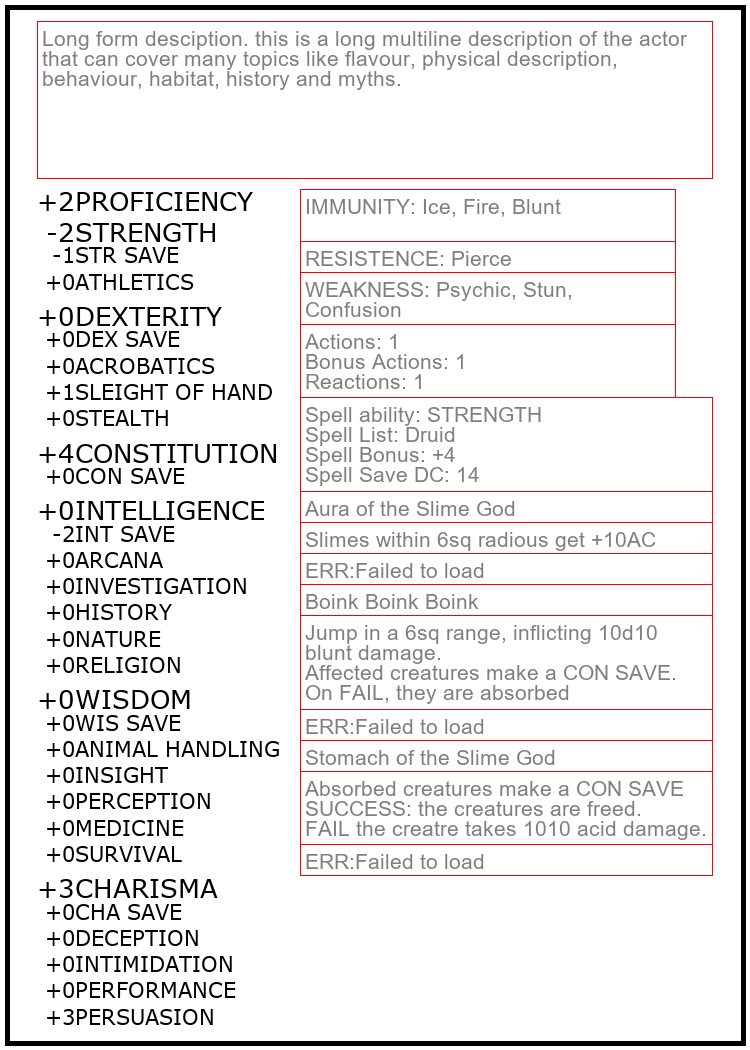
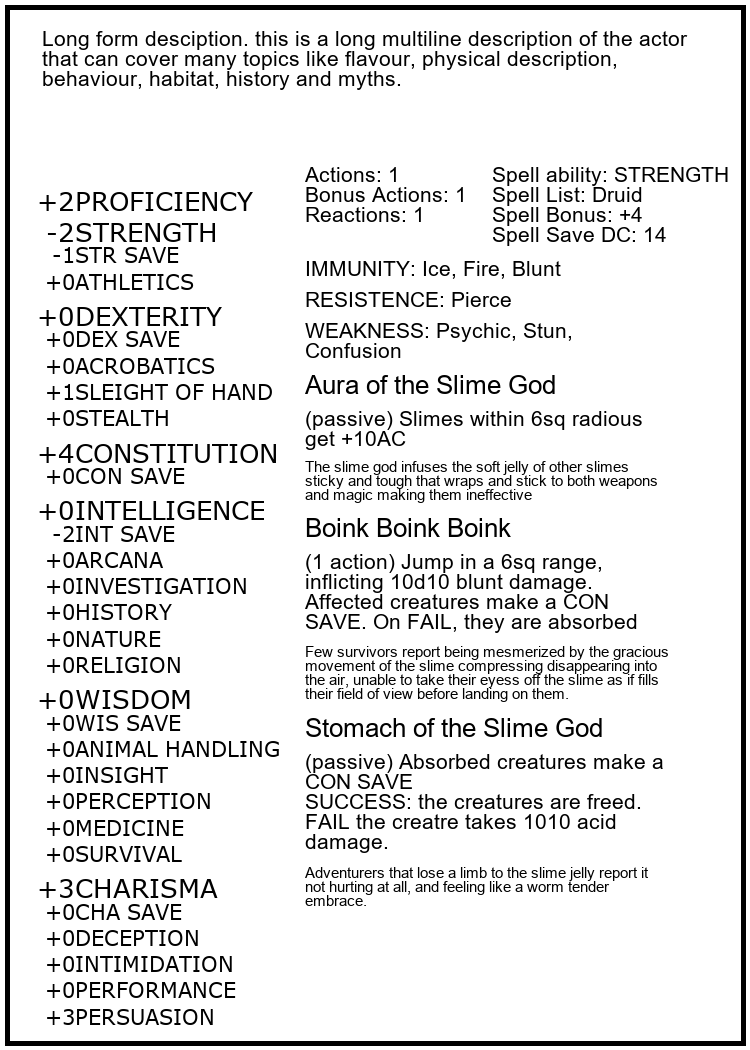
amazing, I completed the card back, looks great TODO: place an image on the back for the card back

Changed region(s): [[0.3987, 0.1524, 0.9813, 0.8838], [0.0307, 0.0305, 0.92, 0.0914]]

diff --git a/src/lib/cl_generator.py b/src/lib/cl_generator.py
@@ -237,9 +237,9 @@ class Cl_npc_character_sheet_generator:
                     i_h_border = 0,
                     i_s_font_name = "arial.ttf",
                     i_n_font_size = h_font_px,
-                    i_tn_color = (127, 127, 127),
+                    i_tn_color = (0, 0, 0),
                     i_n_padding = 5,
-                    i_x_draw_border = True,
+                    i_x_draw_border = False,
                     i_tn_border_color = (255,0,0)
                 )
 
@@ -259,9 +259,9 @@ class Cl_npc_character_sheet_generator:
                     i_h_border = h_text_box_px,
                     i_s_font_name = "arial.ttf",
                     i_n_font_size = h_font_px,
-                    i_tn_color = (127, 127, 127),
+                    i_tn_color = (0, 0, 0),
                     i_n_padding = 5,
-                    i_x_draw_border = True,
+                    i_x_draw_border = False,
                     i_tn_border_color = (255,0,0)
                 )
 
@@ -329,6 +329,10 @@ class Cl_npc_character_sheet_generator:
             print("ERR: field doesn't exist, json is wrong")
             return True #ERROR
 
+        h_font_title_ppt = st_layout_action["h_font_title_ppt"]
+        h_font_body_ppt = st_layout_action["h_font_body_ppt"]
+        h_font_flavor_text_ppt = st_layout_action["h_font_flavor_text_ppt"]
+
         #load the actions from the NPC
         ld_action_npc = i_d_npc["ACTIONS"]
 
@@ -341,26 +345,29 @@ class Cl_npc_character_sheet_generator:
                 return True  # ERROR
 
             # ---------- Header text box (s_name) ----------
-            d_header_box = dict(ld_text_boxes[-1])          # shallow copy of the last entry
+            d_header_box = dict(ld_text_boxes[-1])     
             d_header_box["s_name"] = f"ACTION{0}"
             d_header_box["s_text"] = d_action_npc.get("s_name", "ERR:Failed to load")
-            d_header_box["s_name"] = f"ACTION{0}"
+            d_header_box["h_font_ppt"] = h_font_title_ppt
+
             ld_text_boxes.append(d_header_box)
             logging.debug(f"Added header text box: {d_header_box}")
 
             # ---------- Body text box (s_text) ----------
-            d_body_box = dict(ld_text_boxes[-1])             # copy of the newly appended entry
+            d_body_box = dict(ld_text_boxes[-1])      
             d_body_box["s_name"] = f"ACTION{0}"
             d_body_box["s_text"] = d_action_npc.get("s_text", "ERR:Failed to load")
             #auto height
             d_body_box["h_size_ppt"] = 0
+            d_body_box["h_font_ppt"] = h_font_body_ppt
             ld_text_boxes.append(d_body_box)
             logging.debug(f"Added body text box: {d_body_box}")
 
             # ---------- Description text box (s_action) ----------
-            d_description_box = dict(ld_text_boxes[-1])     # copy of the latest entry
+            d_description_box = dict(ld_text_boxes[-1])   
             d_description_box["s_name"] = f"ACTION{0}"
-            d_description_box["s_text"] = d_action_npc.get("s_action", "ERR:Failed to load")
+            d_description_box["s_text"] = d_action_npc.get("s_flavor", "ERR:Failed to load")
+            d_description_box["h_font_ppt"] = h_font_flavor_text_ppt
             ld_text_boxes.append(d_description_box)
             logging.debug(f"Added description text box: {d_description_box}")
 

diff --git a/src/test_n_card_back_actions.py b/src/test_n_card_back_actions.py
@@ -19,10 +19,8 @@ import PIL.ImageDraw as draw
 import PIL.ImageFont as font
 
 from lib.cl_utility_path import convert_to_path
-from lib.st_attribute_ability import St_attribute_ability
 from lib.st_image import St_image
 #this utility allows to draw a multiline text box onto an image
-from lib.cl_multiline_text import Cl_multiline_text
 
 from lib.cl_generator import Cl_npc_character_sheet_generator
 
